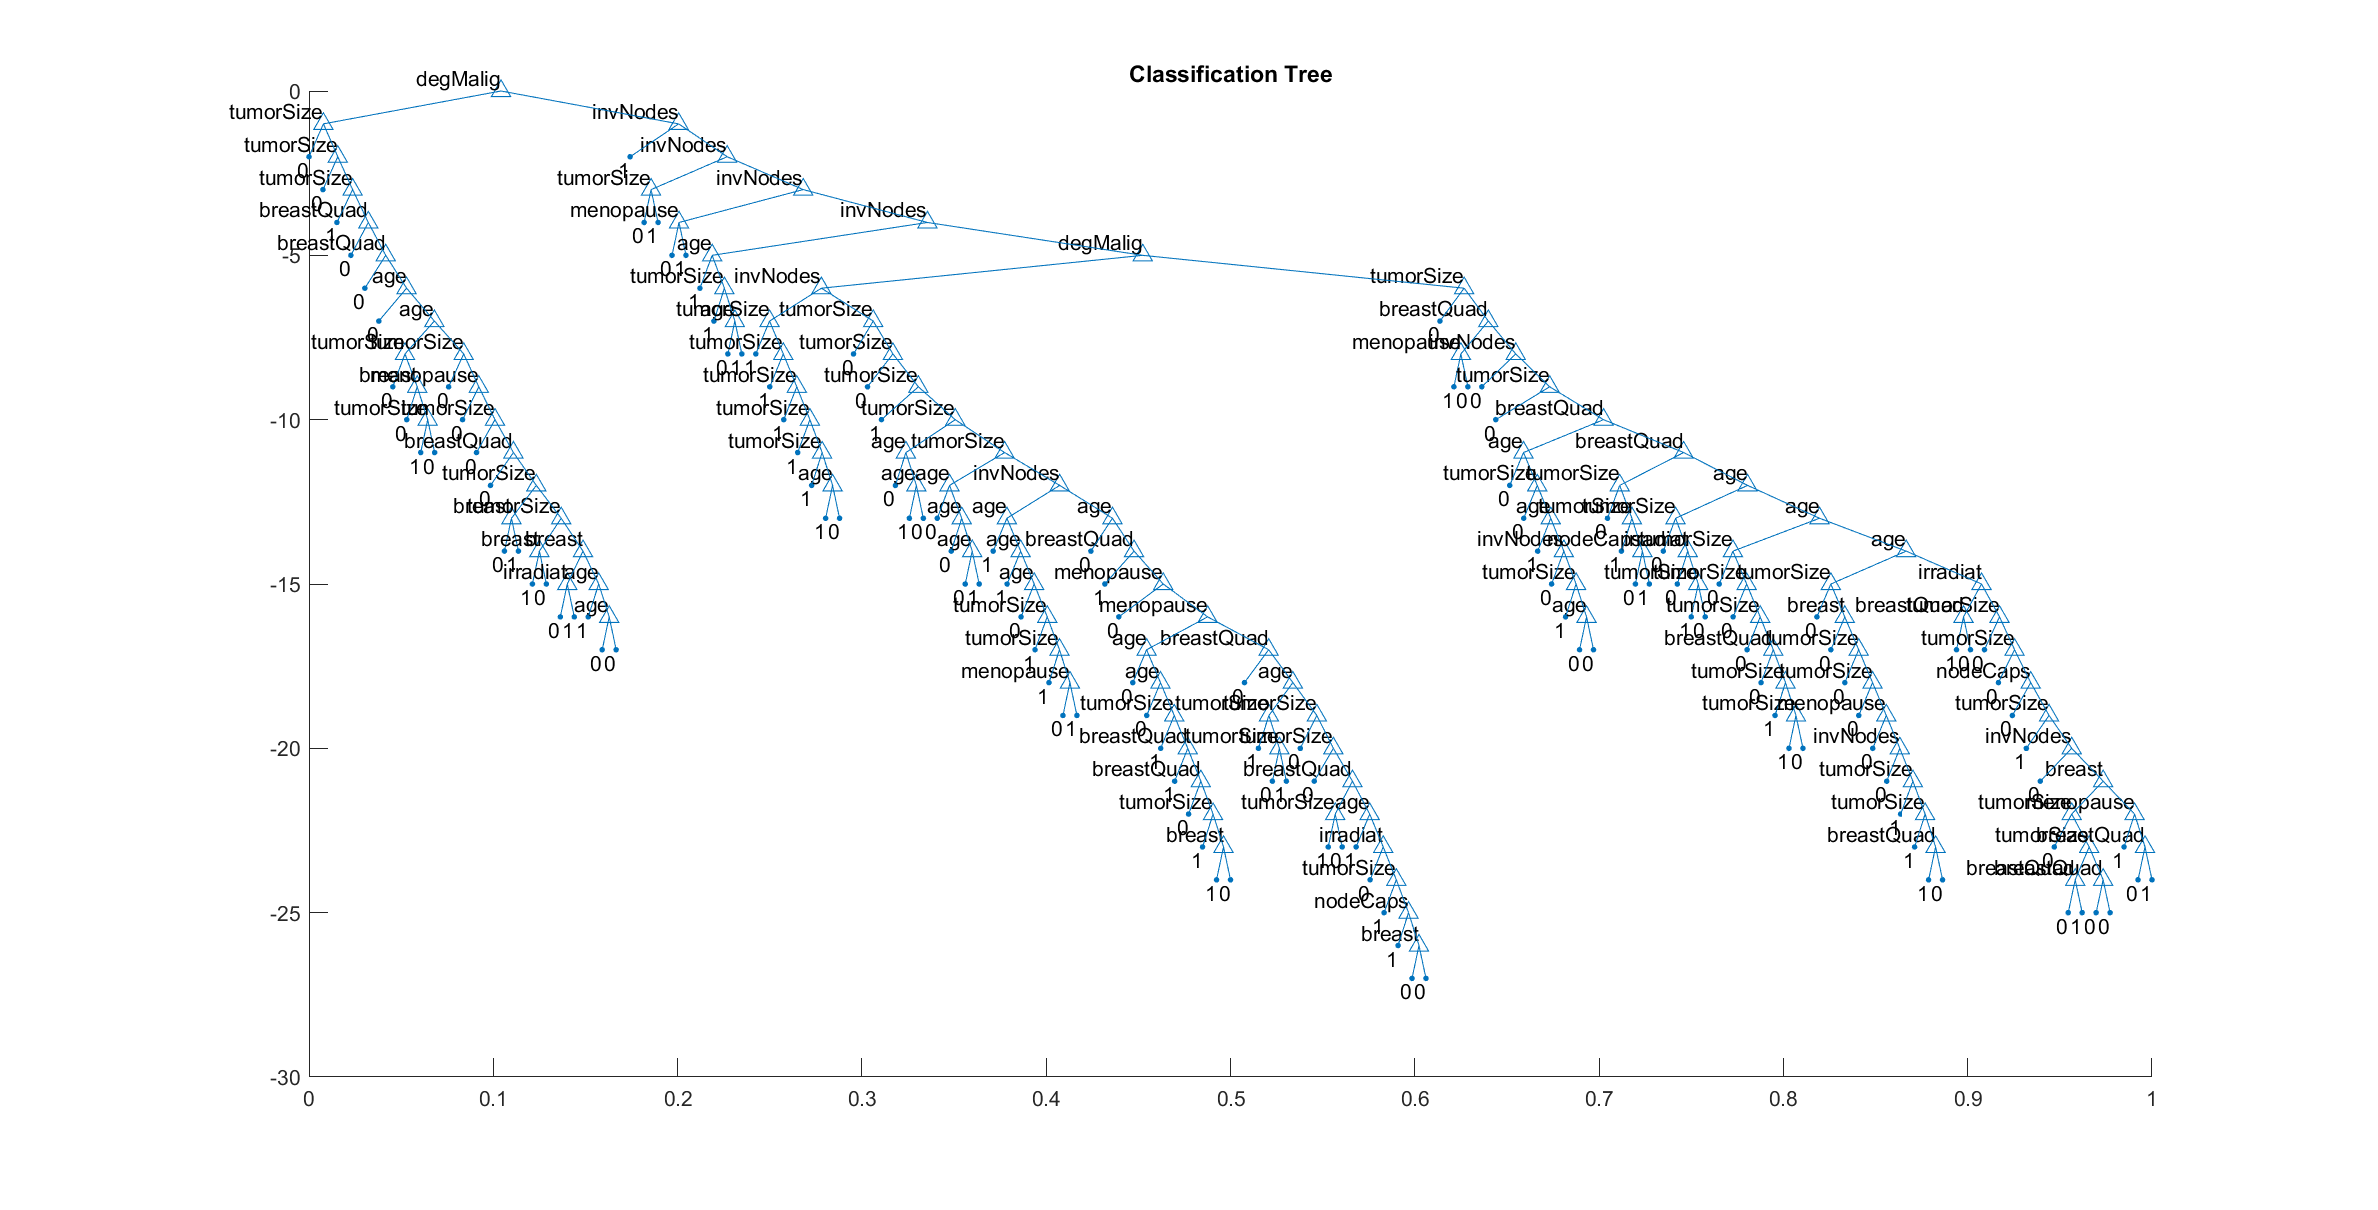
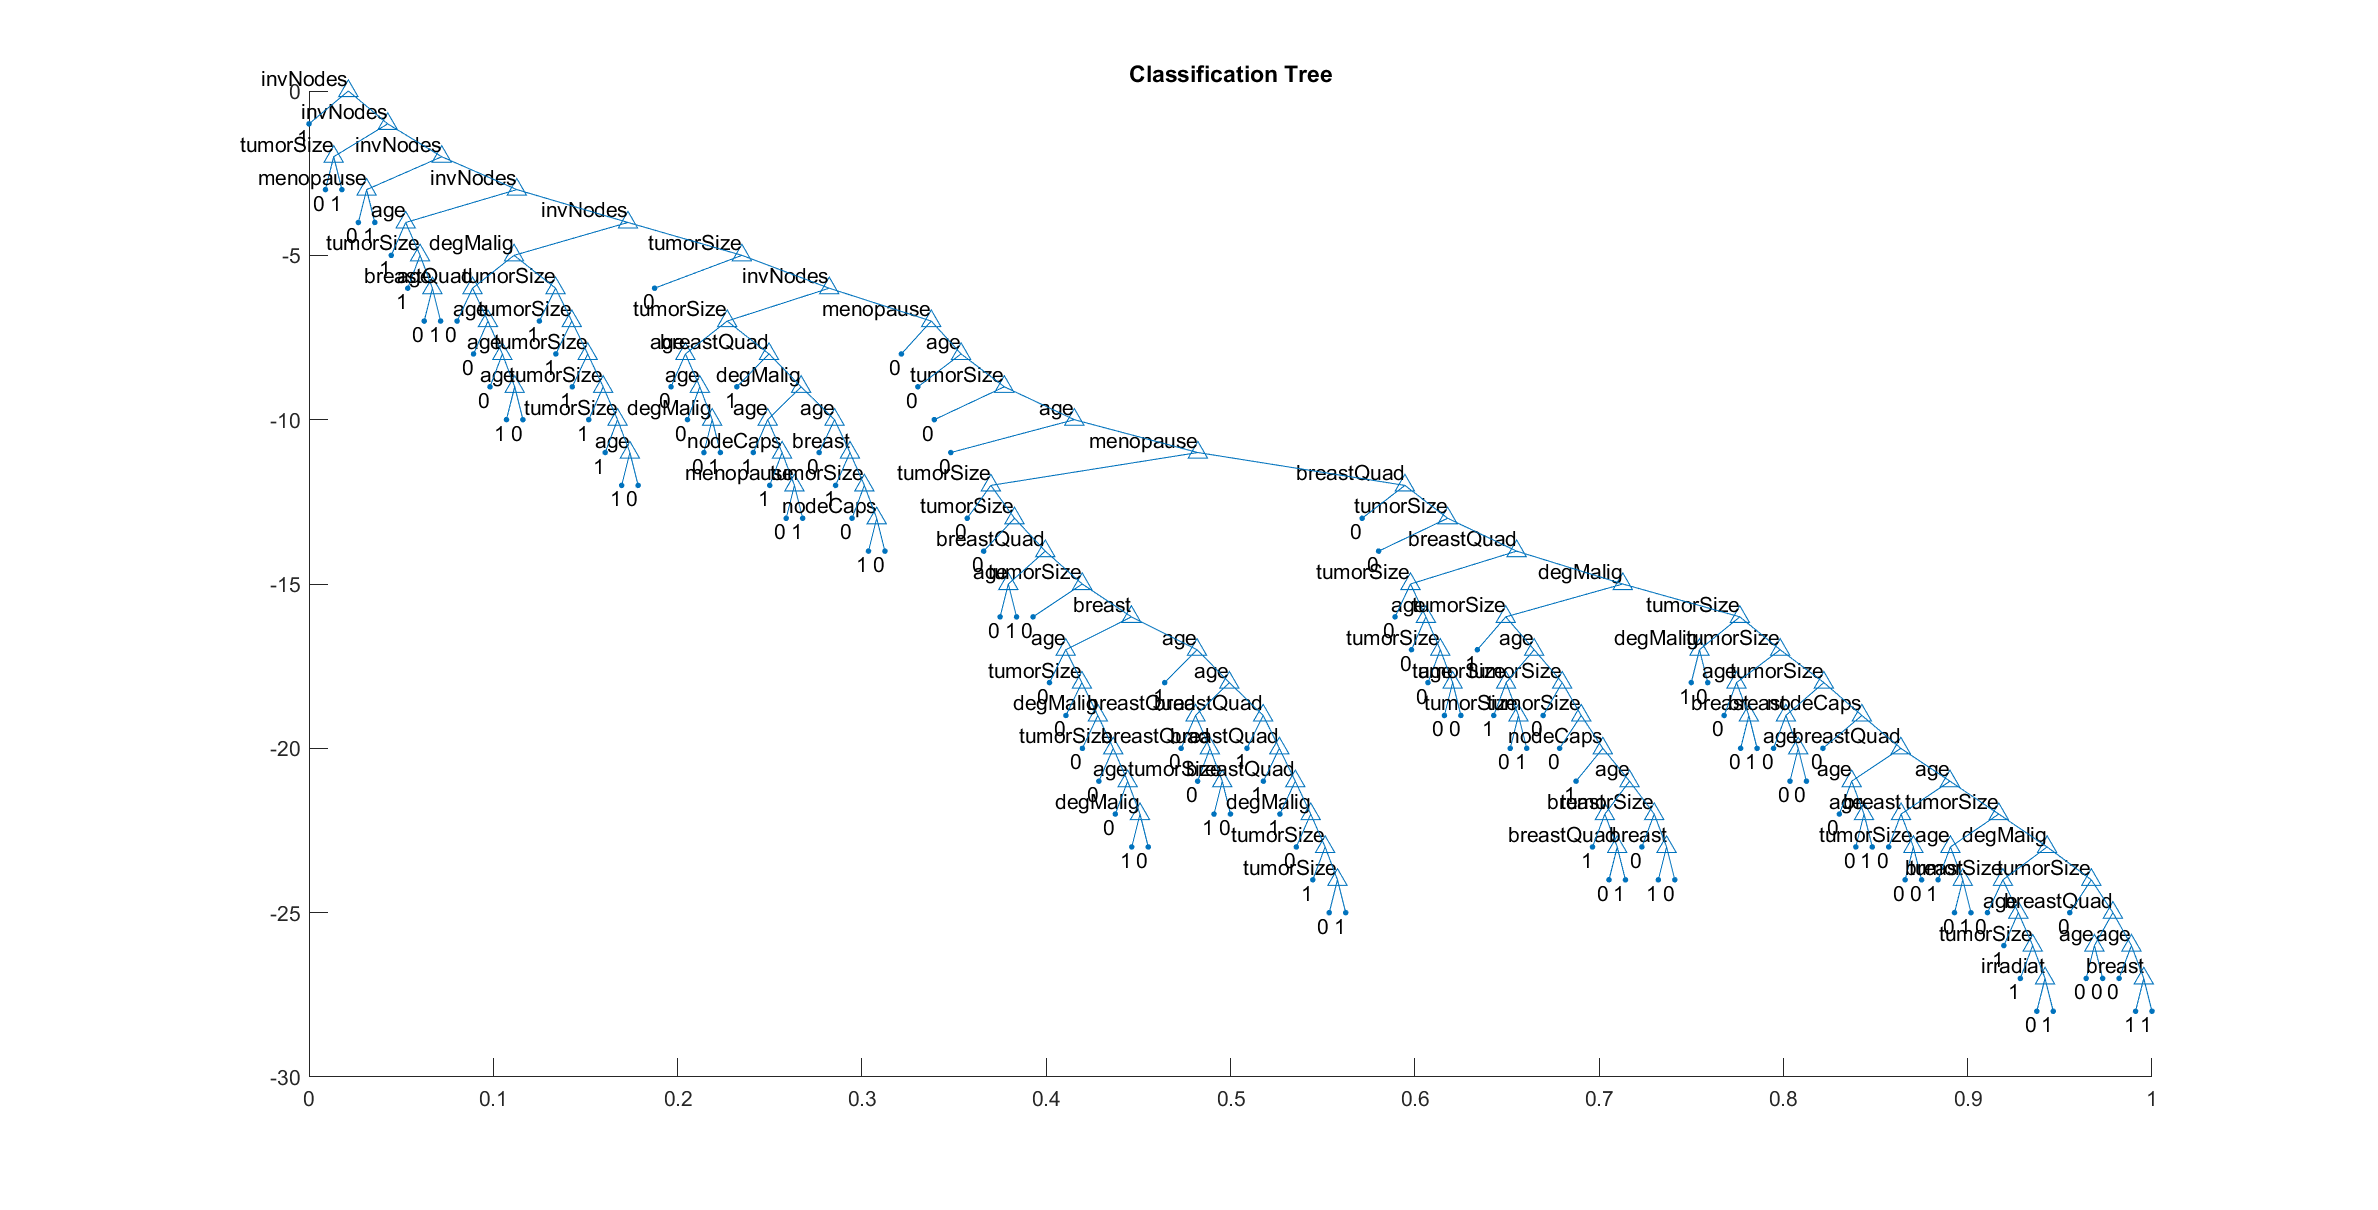
Working version of KFold - gives error for regression

diff --git a/DecisionTrees/runKfold.m b/DecisionTrees/runKfold.m
@@ -16,28 +16,29 @@ function accuracy = runKfold(features, labels, treeType)
         trainingSetLabels = table();
         for i=1:length(trainingSplit)
             trainingSetFeatures = vertcat(trainingSetFeatures,featureFolds{i});
-            trainingSetLabels = vertcat(trainingSetLabels,labelFolds{i});
+            trainingSetLabels = vertcat(trainingSetLabels,labelFolds{i});    
         end
+        
+        trainingSetLabels.label = num2cell(trainingSetLabels.label);
         
         validationSetFeatures = featureFolds{validationSplit};
         validationSetLabels = labelFolds{validationSplit};
+        validationSetLabels.label = num2cell(validationSetLabels.label);
         
-        decisionTree = decisionTreeLearning(trainingSetFeatures, trainingSetLabels);
+        decisionTree = decisionTreeLearning(trainingSetFeatures, trainingSetLabels, treeType);
         predictions = runTree(validationSetFeatures, decisionTree);
         
         if treeType == 0
-            metrics.rmse = calculateRMSE(labels, predictions);
+            metrics.rmse = calculateRMSE(validationSetLabels.label, predictions);
         elseif treeType == 1
-            confusionMatrix = calculateConfusionMatrix(labels, predictions);
+            confusionMatrix = calculateConfusionMatrix(validationSetLabels.label, predictions);
             metrics.recall = confusionMatrix.TP / (confusionMatrix.TP+confusionMatrix.FN);
             metrics.precision = confusionMatrix.TP / (confusionMatrix.TP+confusionMatrix.FP);
-            metrics.F1Score = 2 * ( (metrics.precisionRates*metrics.recallRates) / (metrics.precisionRates+metrics.recallRates)  );
+            metrics.F1Score = 2 * ( (metrics.precision*metrics.recall) / (metrics.precision+metrics.recall)  );
         end
         
         accuracy{index} = metrics;
         
-        DrawDecisionTree(decisionTree, 'Classification Tree');
-
     end
     
 end

diff --git a/DecisionTrees/main.m b/DecisionTrees/main.m
@@ -11,12 +11,21 @@ rng(seed);
 % Set up trees to generate
 trees = {{1, 'Classification Tree'}, {0, 'Regression Tree'}};
 
-%G Generate decison trees
+% Generate decison trees
 for t = 1:length(trees)
     treeType = trees{t}{1};
     treeName = trees{t}{2};
     createTree(treeName, treeType);
 end
+
+% K-Fold
+
+% Split data 80/20
+[features, labels] = loadDataset(1);
+accuracyClass = runKfold(features, labels, 1);
+
+[features, labels] = loadDataset(0);
+accuracyReg = runKfold(features, labels, 0);
 
 function createTree(treeName, treeType)
     [features, labels] = loadDataset(treeType);

diff --git a/DecisionTrees/calculatePossibleSplits.m b/DecisionTrees/calculatePossibleSplits.m
@@ -1,6 +1,6 @@
 function possibleSplits = calculatePossibleSplits(values)
     
-    possibleSplits = cell(length(uniqueValues),2);
+    possibleSplits = cell(length(values),2);
     
     for i = 1:length(values)
         
